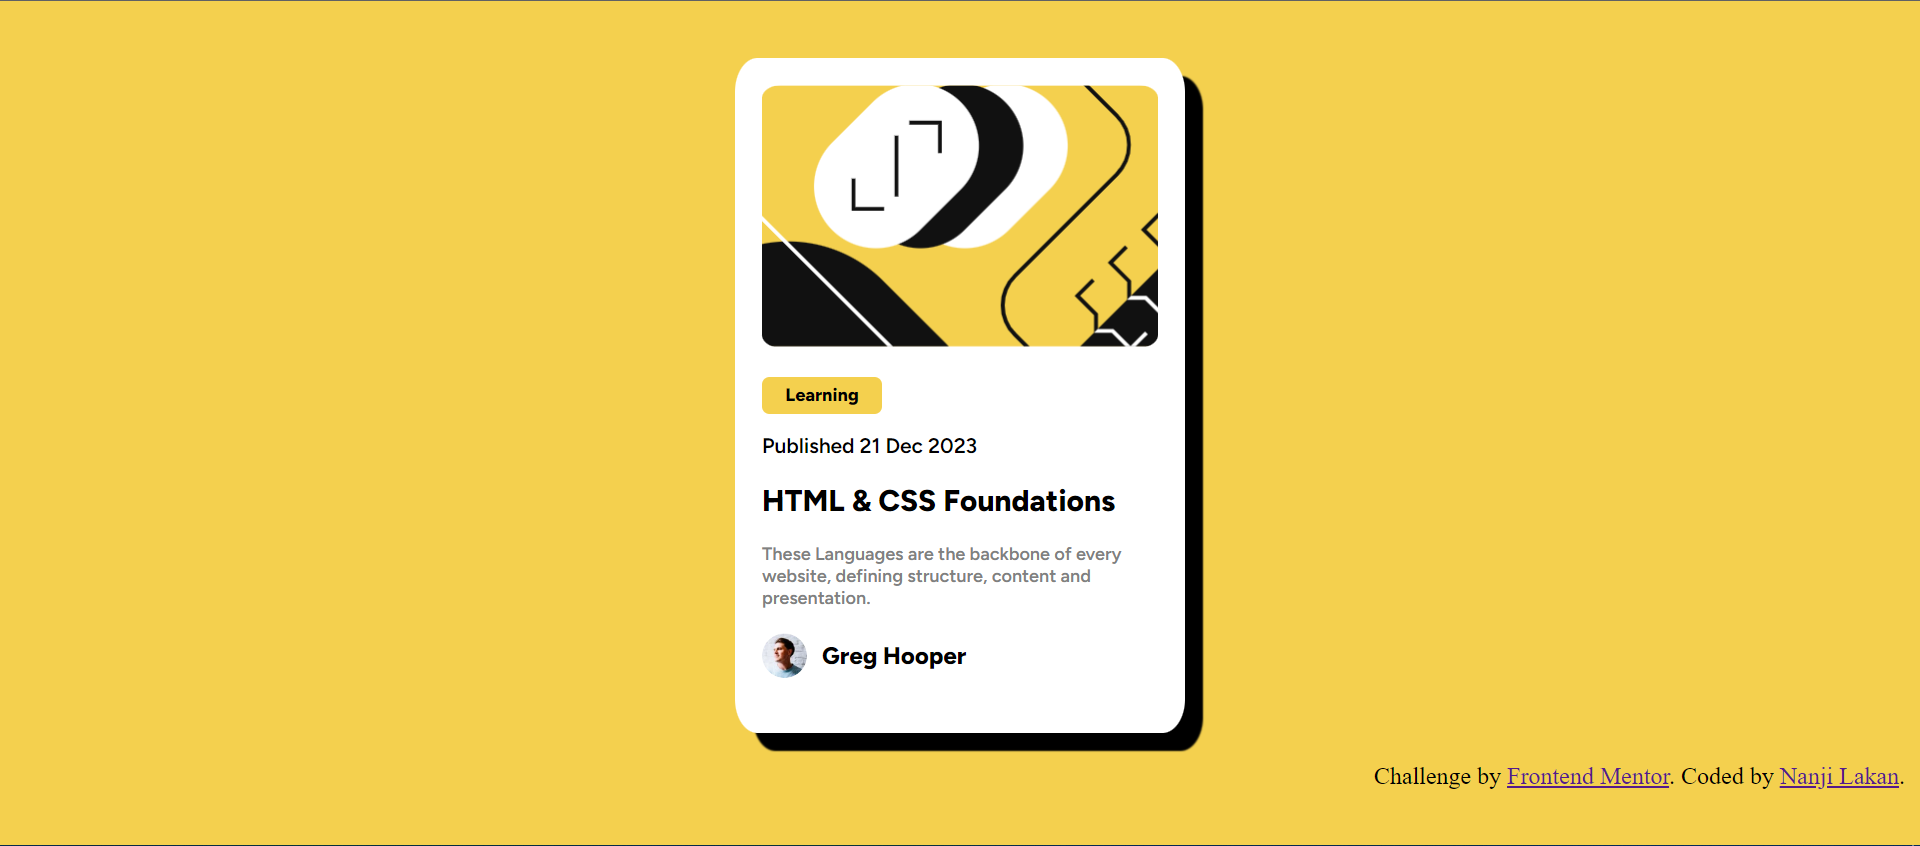
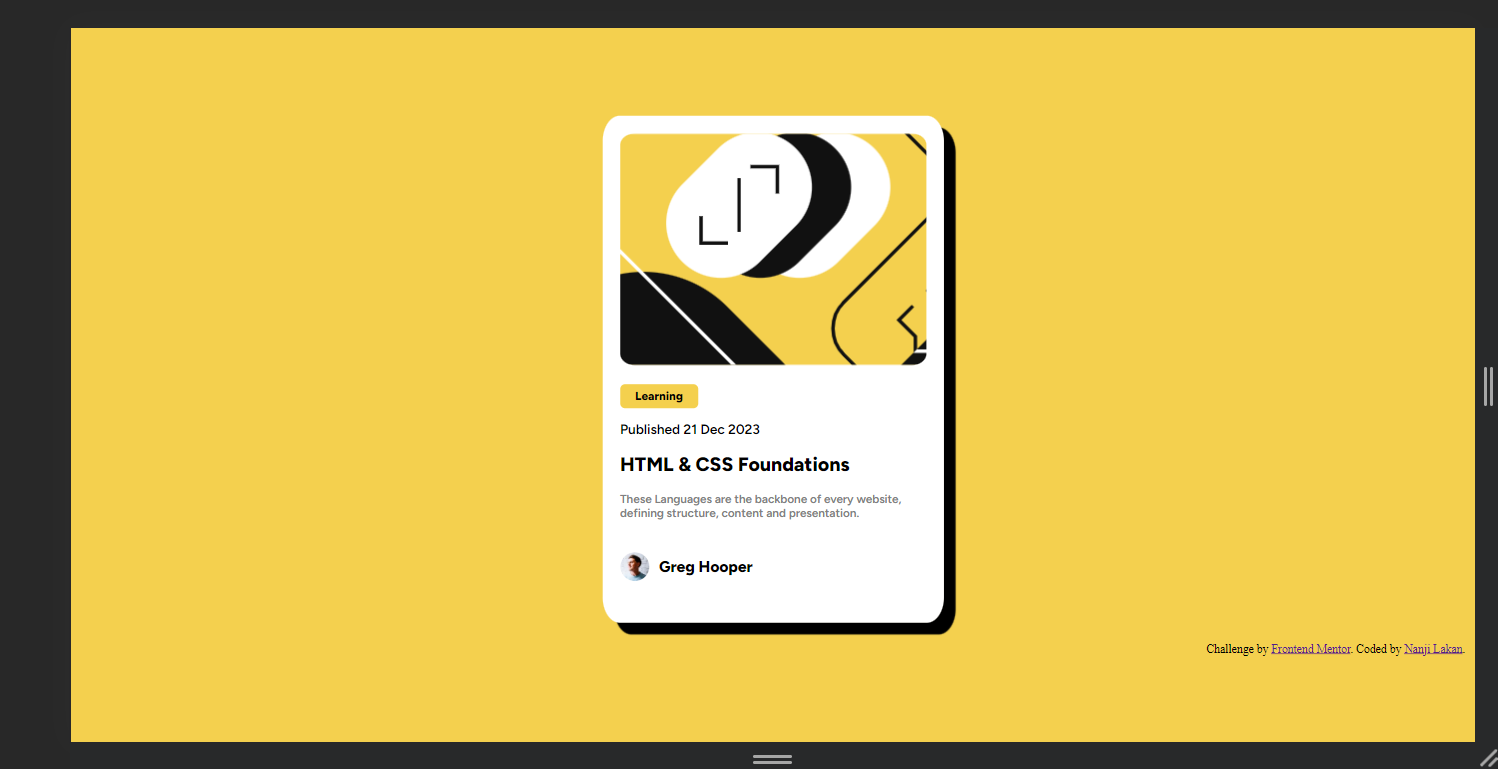
adjusted width and height of card

Changed region(s): [[0.0, 0.0, 1.0, 1.0]]

diff --git a/style.css b/style.css
@@ -28,11 +28,11 @@ align-items: center;
 justify-content: center;
  }
  .card{
-    width: 300px;
-   height: 450px;
+    width: 350px;
+   height: 520px;
    background-color: var(--White-background);
-   padding: 18px 18px 81px 18px;
-   border-radius:5%;
+   padding: 18px 18px 25px 18px;
+   border-radius:  5%;
    box-shadow: 12px 12px 1px #000; 
    margin: 10px;
  }
@@ -78,7 +78,7 @@ justify-content: center;
     color: var(--Yellow-background);
 }
 .paragraph{
-margin: 1rem 0rem;
+margin: 1rem 0rem 2rem 0rem;
 font-size: 12px;
 color: var(--Grey-color);
 font-family: FigTree;
@@ -103,5 +103,5 @@ font-weight: 400;
 .attribution{
     align-self: flex-end;
    padding: 10px;
+   font-size: 12px;
 }
-
